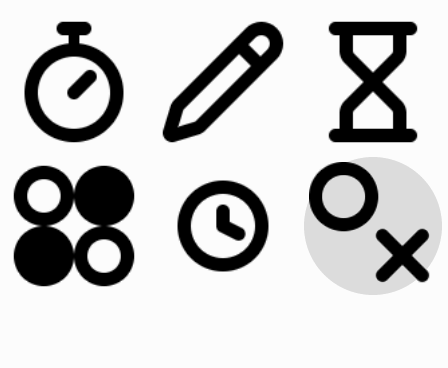
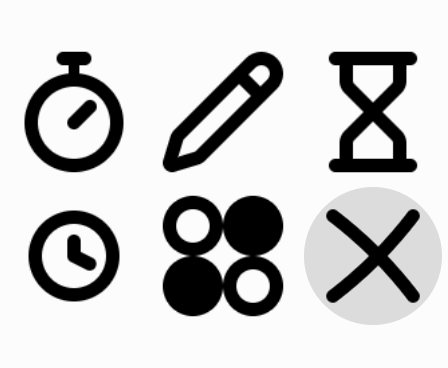
menu: the clock takes the sixth slot, bottom left
The owner: "ajoute la comme la 6e app en bas a gauche (avant le puissance 4 et
les tables)". So it goes fourth in the roster, which at six apps is the
bottom-left cell: the top row keeps the three tools he had already learned to
reach for, and the new one starts the second row instead of displacing
anything.

It has earned the place since being cut on 2026-08-17. Its gesture is now one
a child can find (double-press either button to open, one press to confirm)
rather than a two-handed BOOT-hold-and-slide, and its face follows whichever
edge is up, which was measured on the glass rather than derived.

Six apps also suits the grid better than five did: two rows of three at
149x144 each, near enough square, against five's lopsided three-then-two. Both
rows now clear a child's fingertip twice over.

Two tests carried the old roster as a fact rather than a question. One
asserted the five names in order and simply gains the sixth. The other
hardcoded "four is at slot 3" and would have gone on probing slot 3 while
pointing at the clock's icon - it now asks the roster where the app it cares
about actually is, so the next insertion does not silently aim this whole
file at somebody else's picture.

Claude-Session: https://claude.ai/code/session_017hNMM6ajcQSgCyi2S7QXbH

diff --git a/devices/rp2350-amoled-1.8/emulator/wasm/tests/repro-menu-icon-resample-ghost.ts b/devices/rp2350-amoled-1.8/emulator/wasm/tests/repro-menu-icon-resample-ghost.ts
@@ -68,7 +68,11 @@ const FOUR_ICON_R = 17.5;
 const FOUR_ICON_A = 25.5;
 const FOUR_ICON_B = 70.5;
 const LUCIDE_STROKE_HALF = 5.0;
-const FOUR_SLOT = 3; // g_menuAppIndex: chrono, sketch, timer, four, tables
+// Which SLOT the four-in-a-row icon occupies is roster-dependent and has
+// already moved once (the clock was inserted before it on 2026-08-18). Found
+// by asking the roster rather than written down, so the next insertion does
+// not silently point this whole file at somebody else's icon.
+const FOUR_APP_INDEX = 3; // g_apps[]: chrono, sketch, timer, four, ...
 
 function menuIconSize(cellW: number, cellH: number): number {
     return Math.max(ICON_W, Math.min(cellW, cellH) - 2 * MENU_ICON_PAD);
@@ -108,8 +112,10 @@ async function main() {
     if (exp.emu_app_current() !== APP_INDEX_MENU) throw new Error("did not land in the menu");
 
     const n = menuAppCount();
-    check("this build's roster has four at slot 3, so the geometry below applies",
-        n > FOUR_SLOT && menuAppIndex(FOUR_SLOT) === 3, `n=${n}, slot 3 -> app ${n > FOUR_SLOT ? menuAppIndex(FOUR_SLOT) : "?"}`);
+    let FOUR_SLOT = -1;
+    for (let i = 0; i < n; i++) if (menuAppIndex(i) === FOUR_APP_INDEX) { FOUR_SLOT = i; break; }
+    check("this build's roster shows the four-in-a-row app, so the geometry below applies",
+        FOUR_SLOT >= 0, `n=${n}, four found at slot ${FOUR_SLOT}`);
 
     const { bx, by, bw, bh } = cellRect(n, FOUR_SLOT);
     const size = menuIconSize(bw, bh);

diff --git a/devices/rp2350-amoled-1.8/emulator/wasm/tests/feature-menu-hover.ts b/devices/rp2350-amoled-1.8/emulator/wasm/tests/feature-menu-hover.ts
@@ -308,10 +308,13 @@ async function main() {
     // read by NAME off the real compiled g_apps[] table (appNames(), the
     // full roster) through the menu's own mapping (menuAppIndex()), not
     // assumed from either list on its own.
-    const EXPECTED_MENU_APPS = ["chrono", "draw", "timer", "four", "TABLES"];
+    // The clock joined on 2026-08-18 as the fourth slot, which at six apps is
+    // the bottom-left cell - the owner's placement, so the top row keeps the
+    // three tools he had already learned to reach for.
+    const EXPECTED_MENU_APPS = ["chrono", "draw", "timer", "clock", "four", "TABLES"];
     const names = dev.appNames();
     const menuNames = Array.from({ length: n }, (_, i) => names[dev.menuAppIndex(i)]);
-    check("the menu shows exactly the five apps the owner kept, in this order",
+    check("the menu shows exactly the six apps the owner kept, in this order",
         JSON.stringify(menuNames) === JSON.stringify(EXPECTED_MENU_APPS),
         `menu = [${menuNames.join(", ")}]`);
 

diff --git a/devices/rp2350-amoled-1.8/firmware/runtime/runtime_core.c b/devices/rp2350-amoled-1.8/firmware/runtime/runtime_core.c
@@ -145,6 +145,14 @@ const int g_menuAppIndex[] = {
     0,  // chrono
     1,  // sketch ("draw")
     2,  // timer
+    // The clock joined on 2026-08-18, once its own gesture was one a child
+    // could find (double-press to open, either button to confirm) and its
+    // face followed the edge that is up. Placed FOURTH, which at six apps is
+    // the bottom-left cell: the owner asked for it "en bas a gauche, avant le
+    // puissance 4 et les tables", so the top row stays the three tools he had
+    // learned to reach for and the new one starts the second row rather than
+    // displacing anything.
+    4,  // clock
     3,  // four
     10, // tables
 };
